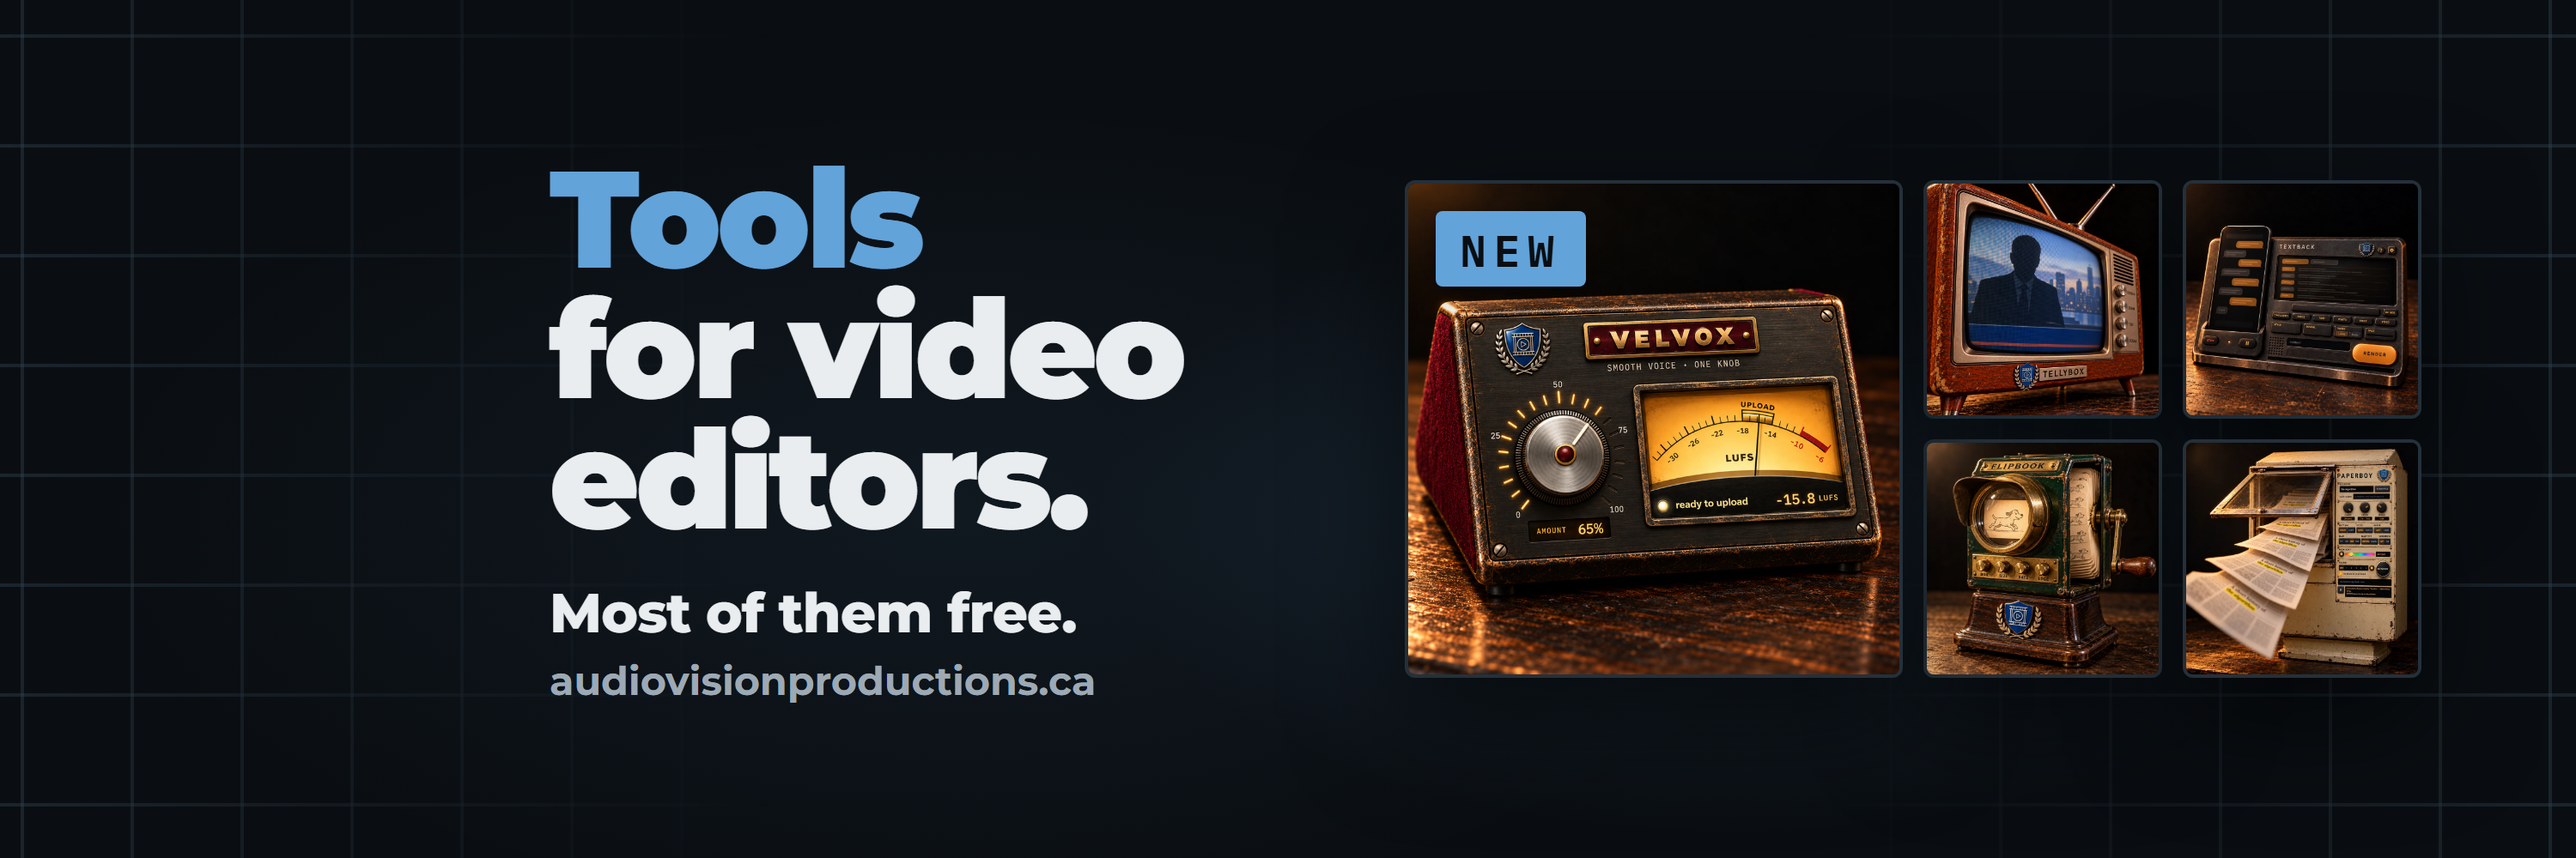
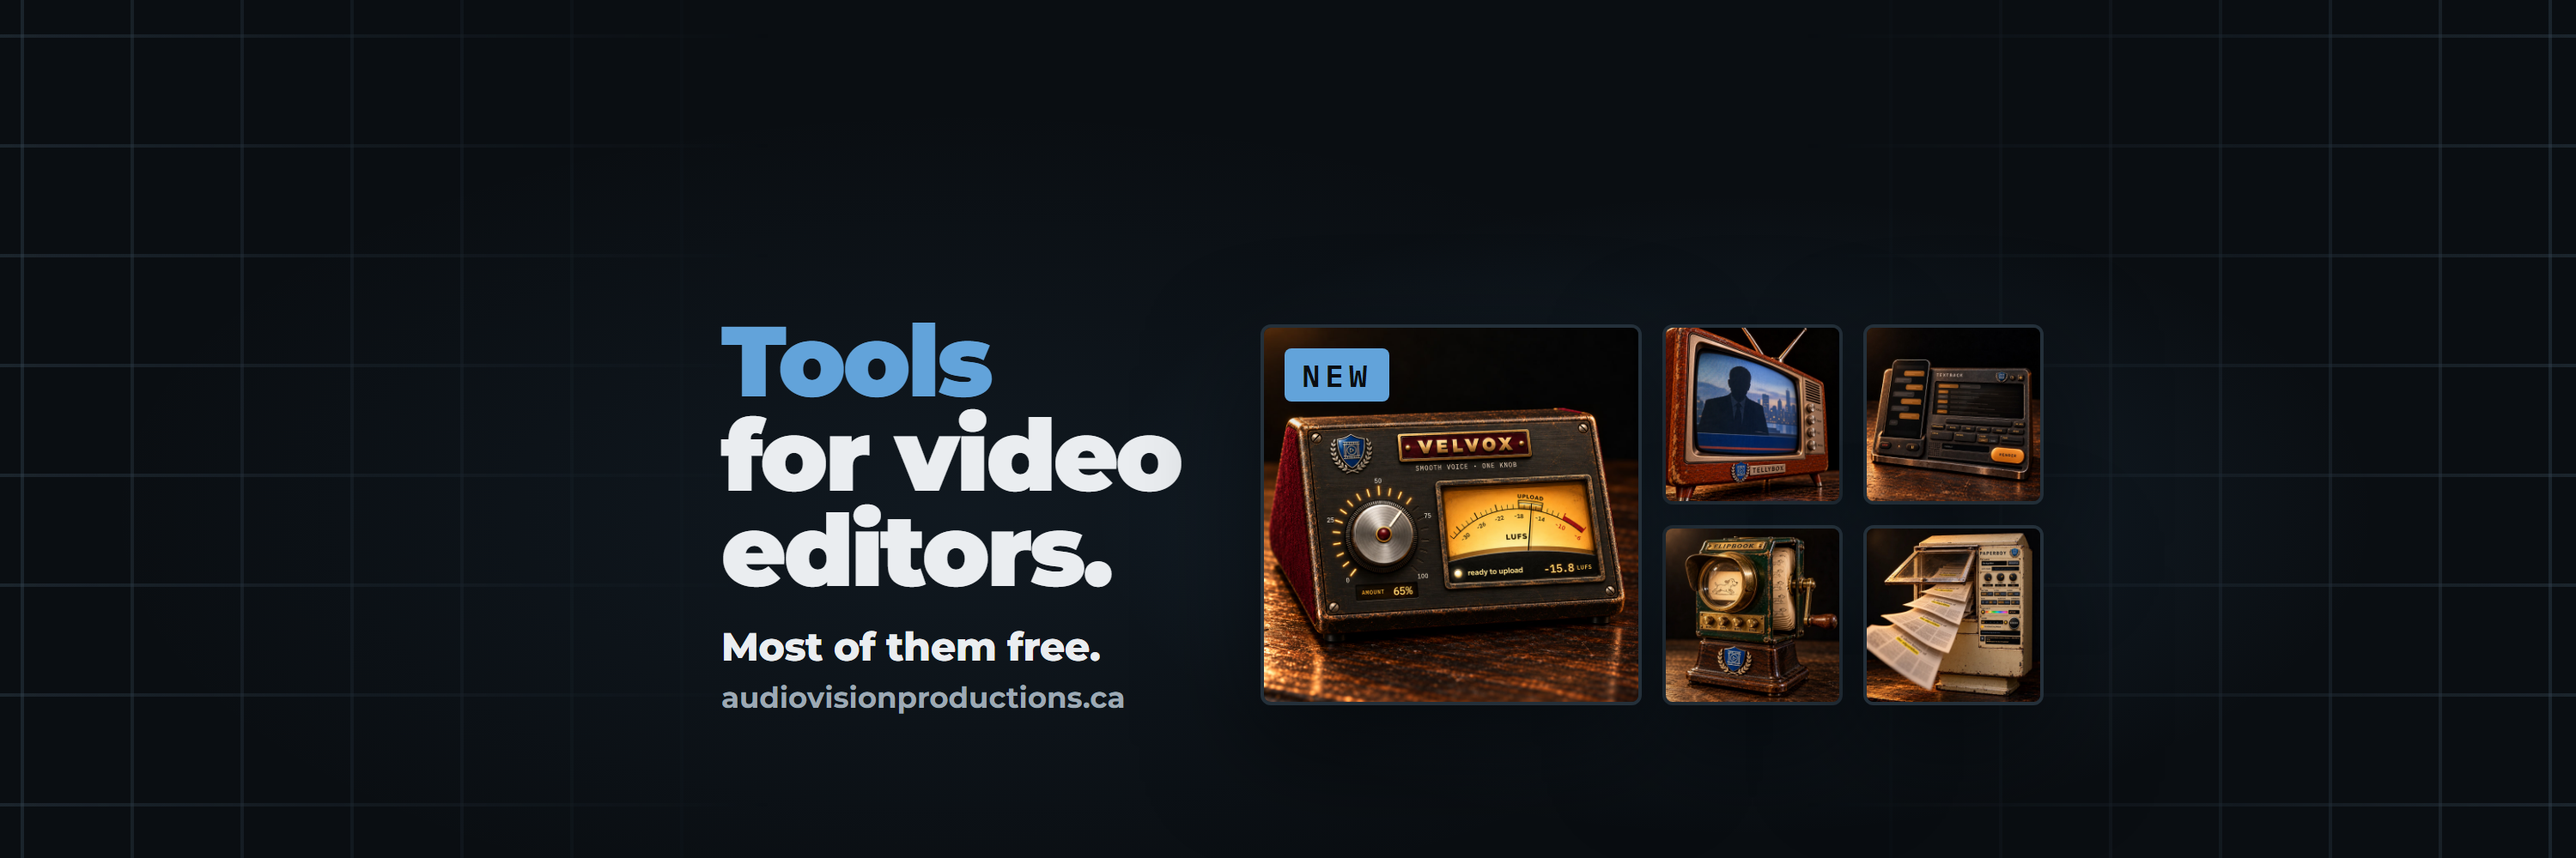
X header: fit the phone-safe centre
On the iPhone app the header loses ~125 px a side, the top under the status bar, and
the back and search buttons sit over both edges; on desktop the profile picture covers
the bottom-left. Content now sits in x 420-1190, y 130-470.

Changed region(s): [[0.217, 0.186, 0.961, 0.837]]

diff --git a/art/youtube-banner/x-header.html b/art/youtube-banner/x-header.html
@@ -24,23 +24,26 @@
             mask-image:linear-gradient(90deg, #000 0, rgba(0,0,0,.55) 12%, transparent 30%, transparent 70%, rgba(0,0,0,.55) 88%, #000 100%)}
   /* phone-safe centre: 1110 wide, nudged up a little so nothing sits under the Page's buttons */
   /* zoomed in (Anthony, 2026-11-13): the content fills the phone-safe centre instead of floating in it */
-  /* right of the profile picture (bottom-left, about 300 px wide here), centred in the height */
-  .safe{position:absolute; left:300px; top:0; width:1120px; height:500px;
-    display:grid; grid-template-columns:1fr auto; column-gap:40px; align-items:center;
-    padding:0 10px 0 20px; box-sizing:border-box}
-  h1{margin:0; font-weight:900; font-size:80px; line-height:.95; letter-spacing:-.028em}
+  /* Phone-safe box (Anthony's iPhone, 2026-11-13): the app crops ~125 px off each side, hides the top
+     ~120 px under the status bar, and floats the back and search buttons at mid-height near both edges.
+     On desktop the profile picture covers x < 390 below y 340. So everything sits in x 420-1190,
+     y 130-470. */
+  .safe{position:absolute; left:420px; top:130px; width:770px; height:340px;
+    display:grid; grid-template-columns:1fr auto; column-gap:28px; align-items:center;
+    padding:0; box-sizing:border-box}
+  h1{margin:0; font-weight:900; font-size:58px; line-height:.95; letter-spacing:-.028em}
   h1 em{font-style:normal; color:var(--brand)}
-  .cta{margin:20px 0 0; font-weight:800; font-size:32px; letter-spacing:-.012em; color:var(--ink)}
-  .site{margin:6px 0 0; font-weight:700; font-size:23px; color:var(--ink-dim)}
-  .renders{display:grid; grid-template-columns:290px 139px 139px; grid-template-rows:139px 139px; gap:12px}
+  .cta{margin:14px 0 0; font-weight:800; font-size:23px; letter-spacing:-.012em; color:var(--ink)}
+  .site{margin:5px 0 0; font-weight:700; font-size:17px; color:var(--ink-dim)}
+  .renders{display:grid; grid-template-columns:222px 105px 105px; grid-template-rows:105px 105px; gap:12px}
   .render{margin:0; border:2px solid var(--edge); border-radius:6px; overflow:hidden; box-shadow:0 24px 64px rgba(0,0,0,.55)}
   .render.big{grid-row:1 / span 2}
   .render img{display:block; width:100%; height:100%}
   .new{position:relative}
-  .new::before{content:"New"; position:absolute; top:16px; left:16px; z-index:1;
-    font-family:"IBM Plex Mono",monospace; font-size:26px; font-weight:600; letter-spacing:.16em;
+  .new::before{content:"New"; position:absolute; top:12px; left:12px; z-index:1;
+    font-family:"IBM Plex Mono",monospace; font-size:18px; font-weight:600; letter-spacing:.16em;
     text-transform:uppercase; line-height:1; background:var(--brand); color:var(--ground);
-    border-radius:4px; padding:10px 14px 8px; box-shadow:0 4px 18px rgba(0,0,0,.5)}
+    border-radius:4px; padding:7px 10px 6px; box-shadow:0 4px 18px rgba(0,0,0,.5)}
 </style>
 
 <div class="glow"></div>
